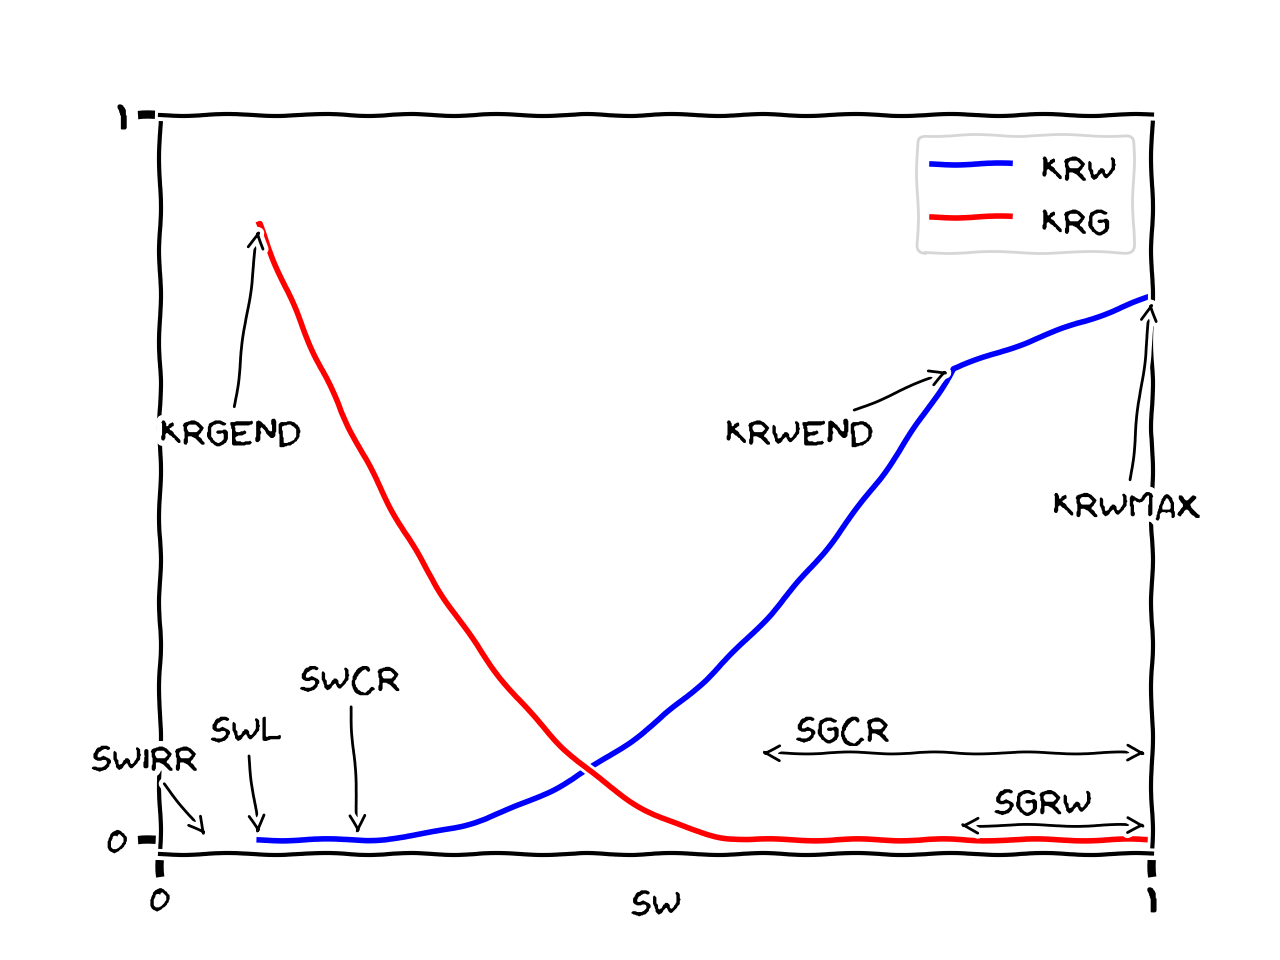
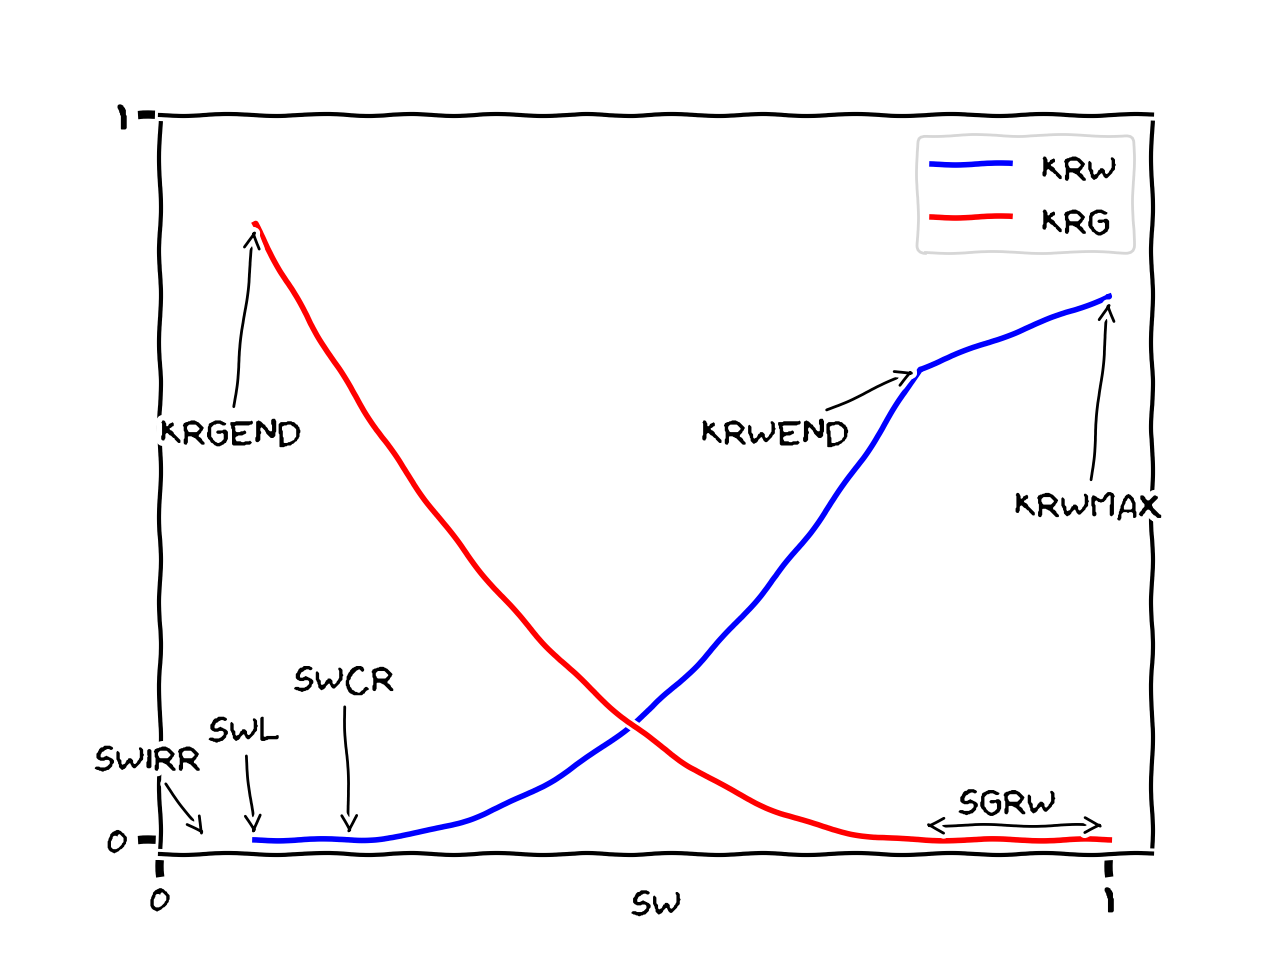
Remove SGCR from GasWater parametrization

diff --git a/tests/test_gaswater.py b/tests/test_gaswater.py
@@ -32,7 +32,7 @@ def check_endpoints(gaswater, krwend, krwmax, krgend):
     assert float_df_checker(gaswater.gasoil.table, "SL", gaswater.swl, "KRG", krgend)
     # krg at sgcr (sgn is zero there) should be zero:
     assert float_df_checker(gaswater.gasoil.table, "SGN", 0.0, "KRG", 0.0)
-    assert float_df_checker(gaswater.gasoil.table, "SL", 1 - gaswater.sgcr, "KRG", 0.0)
+    assert float_df_checker(gaswater.gasoil.table, "SL", 1 - gaswater.sgrw, "KRG", 0.0)
 
     check_linear_sections(gaswater.gasoil)
     check_linear_sections(gaswater.wateroil)
@@ -235,29 +235,24 @@ def test_gaswater_linear():
 
 def test_crosspoint():
     """Test the crosspoint computation (on edge cases)"""
-    gaswater = GasWater(swl=0.0, sgrw=0.0, sgcr=0.0, h=0.1)
+    gaswater = GasWater(swl=0.0, sgrw=0.0, h=0.1)
     gaswater.add_corey_water(nw=1)
     gaswater.add_corey_gas(ng=1)
     assert np.isclose(gaswater.crosspoint(), 0.5)
 
     assert "-- krw = krg @ sw=0.5" in gaswater.SWFN()
 
-    gaswater = GasWater(swl=0.5, sgrw=0.0, sgcr=0.0, h=0.1)
+    gaswater = GasWater(swl=0.5, sgrw=0.0, h=0.1)
     gaswater.add_corey_water(nw=1)
     gaswater.add_corey_gas(ng=1)
     assert np.isclose(gaswater.crosspoint(), 0.75)
 
-    gaswater = GasWater(swl=0.0, sgrw=0.5, sgcr=0.0, h=0.1)
-    gaswater.add_corey_water(nw=1)
-    gaswater.add_corey_gas(ng=1)
-    assert np.isclose(gaswater.crosspoint(), 0.3333333)
-
-    gaswater = GasWater(swl=0.0, sgrw=0.5, sgcr=0.5, h=0.1)
+    gaswater = GasWater(swl=0.0, sgrw=0.5, h=0.1)
     gaswater.add_corey_water(nw=1)
     gaswater.add_corey_gas(ng=1)
     assert np.isclose(gaswater.crosspoint(), 0.25)
 
-    gaswater = GasWater(swl=0.0, sgrw=0.5, sgcr=0.5, h=0.1)
+    gaswater = GasWater(swl=0.0, sgrw=0.5, h=0.1)
     gaswater.add_corey_water(nw=1, krwend=0.5)
     gaswater.add_corey_gas(ng=1, krgend=0.5)
     assert np.isclose(gaswater.crosspoint(), 0.25)
@@ -321,7 +316,6 @@ def test_comments():
     assert "swcr=0" in swfn
     assert "swl=0" in swfn
     assert "sgrw=0" in swfn
-    assert "sgcr=0" in swfn
     assert "nw=2" in swfn
     assert "krwend=1" in swfn
     assert "Corey" in swfn
@@ -336,7 +330,6 @@ def test_comments():
     assert "--" in sgfn
     assert "pyscal: " in sgfn  # part of version string
     assert "swirr=0" in sgfn
-    assert "sgcr=0" in sgfn
     assert "swl=0" in sgfn
     assert "ng=2" in sgfn
     assert "krgend=1" in sgfn

diff --git a/pyscal/wateroil.py b/pyscal/wateroil.py
@@ -65,12 +65,12 @@ class WaterOil(object):
         h=0.01,
         tag="",
         fast=False,
-        _sgcr=None,
+        _gaswater=False,
     ):
         """Sets up the saturation range. Swirr is only relevant
         for the capillary pressure, not for relperm data.
 
-        _sgcr is only to be used by the GasWater object.
+        _gaswater is only to be used by the GasWater object.
         """
 
         assert -epsilon < swirr < 1.0 + epsilon
@@ -91,9 +91,6 @@ class WaterOil(object):
             self.h = h_min
         else:
             self.h = h
-
-        if _sgcr is not None:
-            self.sgcr = _sgcr
 
         self.swirr = swirr
         self.swl = max(swl, swirr)  # Cannot allow swl < swirr. Warn?
@@ -146,7 +143,7 @@ class WaterOil(object):
         # Different normalization for Sw used for capillary pressure
         self.table["SWNPC"] = (self.table["SW"] - swirr) / (1 - swirr)
 
-        if _sgcr is None:
+        if _gaswater is False:
             self.swcomment = "-- swirr=%g swl=%g swcr=%g sorw=%g\n" % (
                 self.swirr,
                 self.swl,
@@ -154,13 +151,11 @@ class WaterOil(object):
                 self.sorw,
             )
         else:
-            # When _sgcr is defined, this object is in use by GasWater
-            self.swcomment = "-- swirr=%g swl=%g swcr=%g sgrw=%g sgcr=%g\n" % (
+            self.swcomment = "-- swirr=%g swl=%g swcr=%g sgrw=%g\n" % (
                 self.swirr,
                 self.swl,
                 self.swcr,
                 self.sorw,
-                self.sgcr,
             )
 
         self.krwcomment = ""
@@ -966,7 +961,7 @@ class WaterOil(object):
                 If this is all linear, but krw is not, you might be better off
                 with krw
         Returns:
-            float: The estimated sgcr.
+            float: The estimated swcr.
         """
         assert curve in self.table
         assert self.table[curve].sum() > 0

diff --git a/pyscal/gaswater.py b/pyscal/gaswater.py
@@ -32,7 +32,6 @@ class GasWater(object):
         swl (float): First water saturation point in outputted tables.
         swcr (float): Critical water saturation, water is immobile below this
         sgrw (float): Residual gas saturation after water flooding.
-        sgcr (float): Critical gas saturation, gas is immobile below this
         h (float): Saturation intervals in generated tables.
         tag (str): Optional text that will be included as comments.
         fast (bool): Set to True if you prefer speed over robustness. Not recommended,
@@ -45,7 +44,6 @@ class GasWater(object):
         swl=0.0,
         swcr=0.0,
         sgrw=0.0,
-        sgcr=0,
         h=0.01,
         tag="",
         fast=False,
@@ -63,16 +61,15 @@ class GasWater(object):
             h=h,
             tag=tag,
             fast=fast,
-            _sgcr=sgcr,
+            _gaswater=True,
         )
 
-        self.sgcr = sgcr
         self.sgrw = sgrw
         # (remaining parameters are implemented as property functions)
 
         self.gasoil = GasOil(
             swirr=swirr,  # Reserved for use in capillary pressure
-            sgcr=sgcr,
+            sgcr=sgrw,
             sorg=0,  # Irrelevant for GasWater
             swl=swl,
             h=h,

diff --git a/tests/interactive_tests.py b/tests/interactive_tests.py
@@ -216,13 +216,11 @@ def test_interpolate_gw():
     swl_l = random.uniform(0, 0.1)
     swcr_l = swl_l + random.uniform(0, 0.1)
     sgrw_l = random.uniform(0, 0.2)
-    sgcr_l = random.uniform(0, 0.3)
     swl_h = random.uniform(0, 0.1)
     swcr_h = swl_h + random.uniform(0, 0.1)
     sgrw_h = random.uniform(0, 0.2)
-    sgcr_h = random.uniform(0, 0.3)
-    gw_low = GasWater(swl=swl_l, swcr=swcr_l, sgrw=sgrw_l, sgcr=sgcr_l, h=0.001)
-    gw_high = GasWater(swl=swl_h, swcr=swcr_h, sgrw=sgrw_h, sgcr=sgcr_h, h=0.001)
+    gw_low = GasWater(swl=swl_l, swcr=swcr_l, sgrw=sgrw_l, h=0.001)
+    gw_high = GasWater(swl=swl_h, swcr=swcr_h, sgrw=sgrw_h, h=0.001)
     gw_low.add_corey_water(nw=random.uniform(1, 3), krwend=random.uniform(0.5, 1))
     gw_high.add_corey_water(nw=random.uniform(1, 3), krwend=random.uniform(0.5, 1))
     gw_low.add_corey_gas(ng=random.uniform(1, 3), krgend=random.uniform(0.5, 1))

diff --git a/docs/make_parameter_guideplot.py b/docs/make_parameter_guideplot.py
@@ -172,12 +172,11 @@ def make_gaswater_plot(show=True):
     swirr = 0.05
     swl = 0.1
     swcr = 0.2
-    sgcr = 0.4
     sgrw = 0.2
     krwend = 0.65
     krwmax = 0.75
     krgend = 0.85
-    gaswater = GasWater(swirr=swirr, swl=swl, swcr=swcr, sgrw=sgrw, sgcr=sgcr, h=0.001)
+    gaswater = GasWater(swirr=swirr, swl=swl, swcr=swcr, sgrw=sgrw, h=0.001)
     gaswater.add_corey_water(nw=2, krwend=krwend, krwmax=krwmax)
     gaswater.add_corey_gas(ng=2, krgend=krgend)
     gaswater.wateroil.table.plot(
@@ -230,11 +229,6 @@ def make_gaswater_plot(show=True):
     axes.text(1 - sgrw + 0.04, 0.04, "SGRW")
     axes.annotate(
         "", xy=(1 - sgrw, 0.02), xytext=(1, 0.02), arrowprops=dict(arrowstyle="<->")
-    )
-
-    axes.text(1 - sgcr + 0.04, 0.14, "SGCR")
-    axes.annotate(
-        "", xy=(1 - sgcr, 0.12), xytext=(1, 0.12), arrowprops=dict(arrowstyle="<->")
     )
 
     if show:

diff --git a/tests/test_factory.py b/tests/test_factory.py
@@ -451,7 +451,7 @@ def test_factory_gaswater():
         pyscal_factory.create_gas_water(params="swirr 0.01")
 
     gaswater = pyscal_factory.create_gas_water(
-        dict(swirr=0.01, swl=0.03, sgrw=0.1, sgcr=0.15, tag="gassy sand", ng=2, nw=2)
+        dict(swirr=0.01, swl=0.03, sgrw=0.1, tag="gassy sand", ng=2, nw=2)
     )
 
     assert isinstance(gaswater, GasWater)
@@ -459,7 +459,6 @@ def test_factory_gaswater():
     assert gaswater.swirr == 0.01
     assert gaswater.swl == 0.03
     assert gaswater.sgrw == 0.1
-    assert gaswater.sgcr == 0.15
     assert gaswater.tag == "gassy sand"
 
     sgfn = gaswater.SGFN()
@@ -473,7 +472,6 @@ def test_factory_gaswater():
     assert "swirr=0.01" in sgfn
     assert "swirr=0.01" in swfn
     assert "sgrw=0.1" in swfn
-    assert "sgcr=0.15" in sgfn
     assert "nw=2" in swfn
     assert "ng=2" in sgfn
     assert "gassy sand" in sgfn

diff --git a/pyscal/factory.py b/pyscal/factory.py
@@ -63,7 +63,7 @@ GO_OIL_ENDPOINTS = ["kroend", "krogend"]  # krogend is deprecated in favour of k
 GO_LET_GAS = ["lg", "eg", "tg"]
 GO_LET_OIL = ["log", "eog", "tog"]
 
-GW_INIT = ["swirr", "swl", "swcr", "sgrw", "sgcr", "h", "tag"]
+GW_INIT = ["swirr", "swl", "swcr", "sgrw", "h", "tag"]
 GW_COREY_WATER = ["nw"]
 GW_COREY_GAS = ["ng"]
 GW_WATER_ENDPOINTS = ["krwmax", "krwend"]
